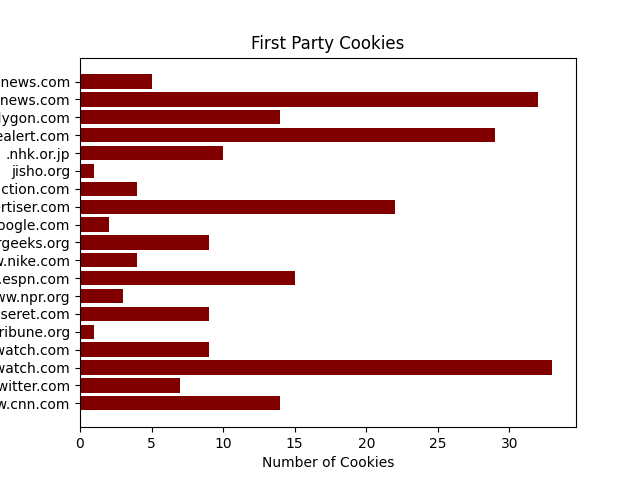
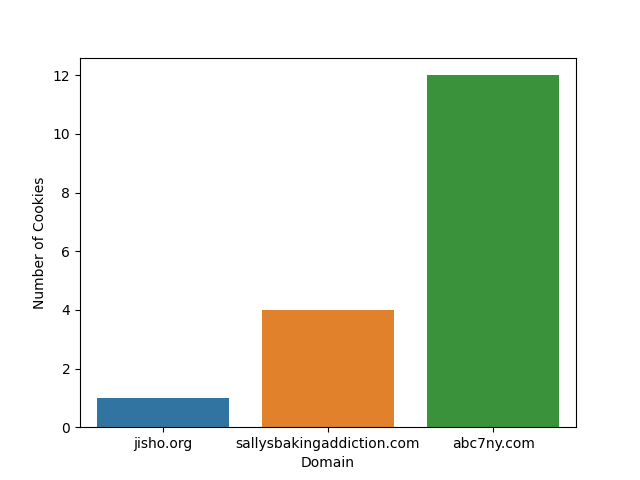
HW 4 Final Files
- completed answers.txt
- Adding 1st and 3rd cookie images
- Updated Domains
- HW python file

diff --git a/assignment 04/hw04.py b/assignment 04/hw04.py
@@ -2,27 +2,41 @@ import json
 import matplotlib.pyplot as plt
 from numpy import random
 import matplotlib.ticker as mticker
+import pandas as pd
+import numpy as np
+import matplotlib.pyplot as plt
+import seaborn as sns
 
 
 def createThirdPartyPlots(values):
     # Creates the plot of all third party cookies
-    # Get all x and y values
-    xAxis = [key for key, value in values.items()]
-    yAxis = [value for key, value in values.items()]
+    fig = plt.figure(figsize=(100, 20))
+    State = [key for key, value in values.items()]
+    growth = [value for key, value in values.items()]
 
-    ## Bar Vertical Graph ##
-    plt.bar(xAxis, yAxis, color='maroon')
-    # plt.barh(xAxis, yAxis, color='maroon') DELETE LATER
-    # plt.xticks(rotation=90) #rotate till sidways
-    plt.xlabel('Domain')
-    plt.ylabel('Number of Cookies')
-    plt.title("Third Party Cookies")
+
+    # Create a pandas dataframe
+    df = pd.DataFrame({"Domain": State,
+                    "Number of Cookies": growth})
+
+
+    # sort dataframe
+    df.sort_values('Number of Cookies')
+
+
+    # make barplot and sort bars
+    sns.barplot(x='Domain',
+                y="Number of Cookies", data=df,
+                order=df.sort_values('Number of Cookies').Domain)
+
+    # Format the x-axis
+    fig.autofmt_xdate()
 
     # Save Image
     plt.savefig('thirdparty.png')
 
     # Show the Graph
-    plt.show() 
+    # plt.show() 
 
 
 def getThirdPartyPlots():
@@ -53,15 +67,22 @@ def getThirdPartyPlots():
 
 def createCookiesPlot(values):
     # Creates the plot of all cookies visited
-    xAxis = [key for key, value in values.items()]
-    yAxis = [value for key, value in values.items()]
+    State = [key for key, value in values.items()]
+    growth = [value for key, value in values.items()]
 
-    ## Bar Horizontal Graph ##
-    fig = plt.figure()
-    plt.barh(xAxis, yAxis, color='maroon')
-    plt.xlabel('Number of Cookies')
-    plt.ylabel('Domain')
-    plt.title("First Party Cookies")
+    # Create a pandas dataframe
+    df = pd.DataFrame({"Domain": State,
+                    "Number of Cookies": growth})
+
+
+    # sort dataframe
+    df.sort_values('Number of Cookies')
+
+
+    # make barplot and sort bars
+    sns.barplot(x='Domain',
+                y="Number of Cookies", data=df,
+                order=df.sort_values('Number of Cookies').Domain)
     
     # Save the graph
     plt.savefig('firstparty.png')
@@ -108,24 +129,6 @@ def getAllDomains():
     return websites
 
 
-def createPlot(websites, values):
-    # Basic Plot Creation
-    # Actual plot creation
-    plt.style.use('ggplot')
-
-    x_pos = [i for i, _ in enumerate(websites)]
-    plt.bar(x_pos, values, color='green')
-
-    plt.xlabel("Domain")
-    plt.ylabel("Number of Cookies")
-    plt.title("First Party Cookies")
-    plt.xticks(x_pos, websites)
-
-    # Save the plot
-    plt.savefig('test.png')
-    # plt.show()
-
-
 def main():
     # Getting all the domains visited
     websites = getAllDomains()
@@ -138,8 +141,5 @@ def main():
     thirdPartyValues = getThirdPartyPlots()
     createThirdPartyPlots(thirdPartyValues)
 
-    # createPlot(websites, values) Old Way
-
-
-
+    
 main()
